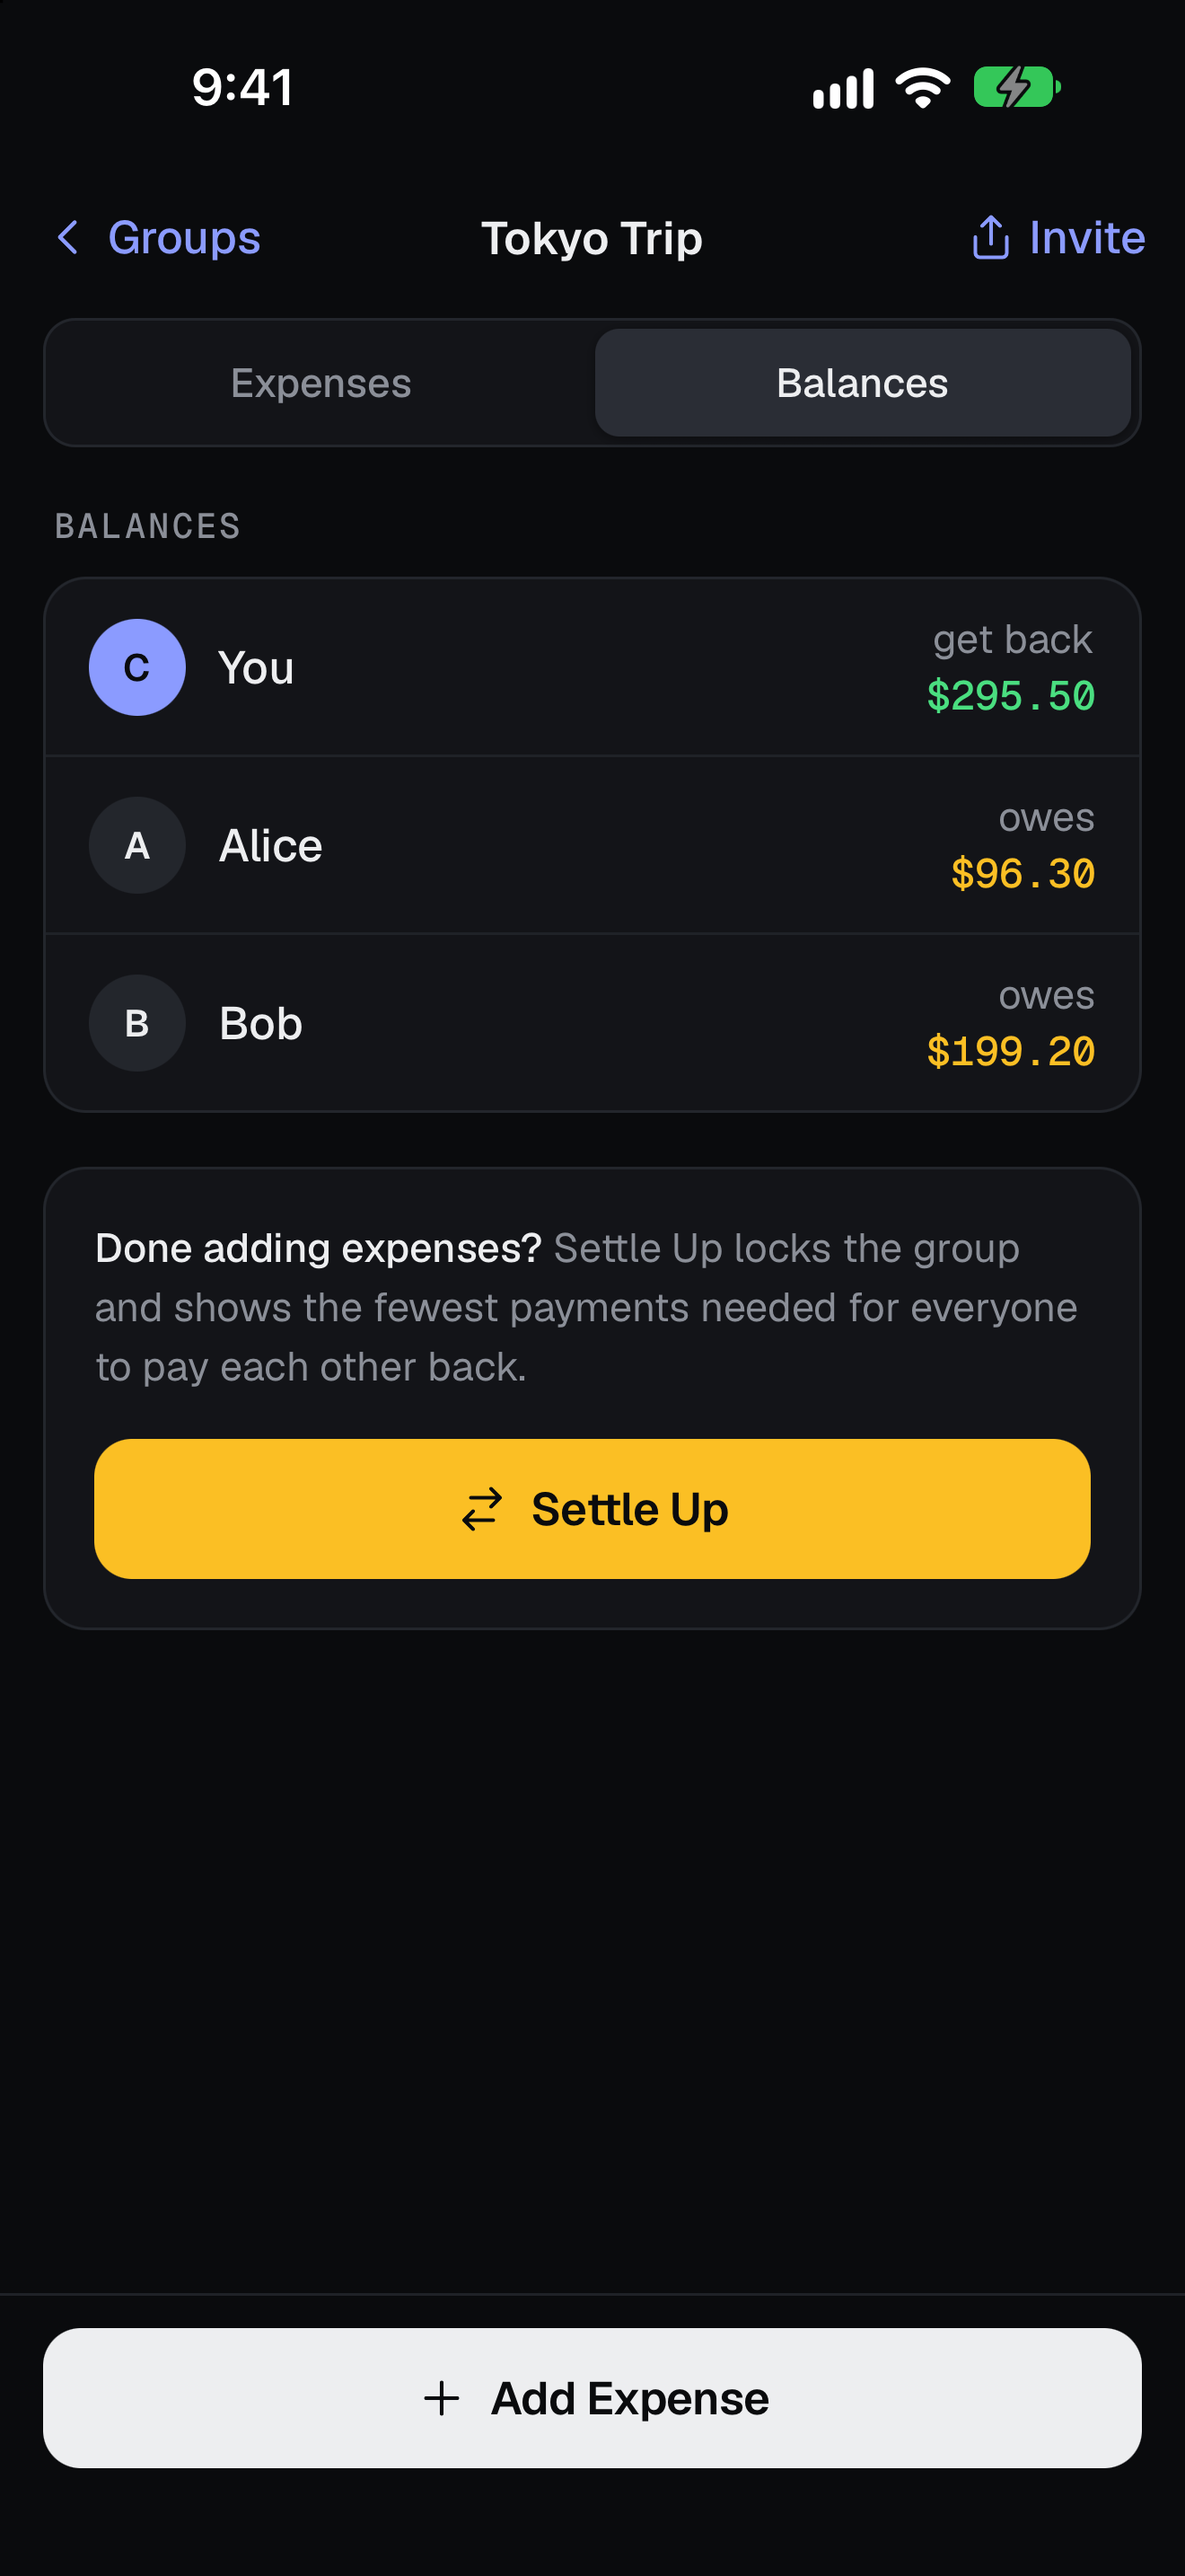
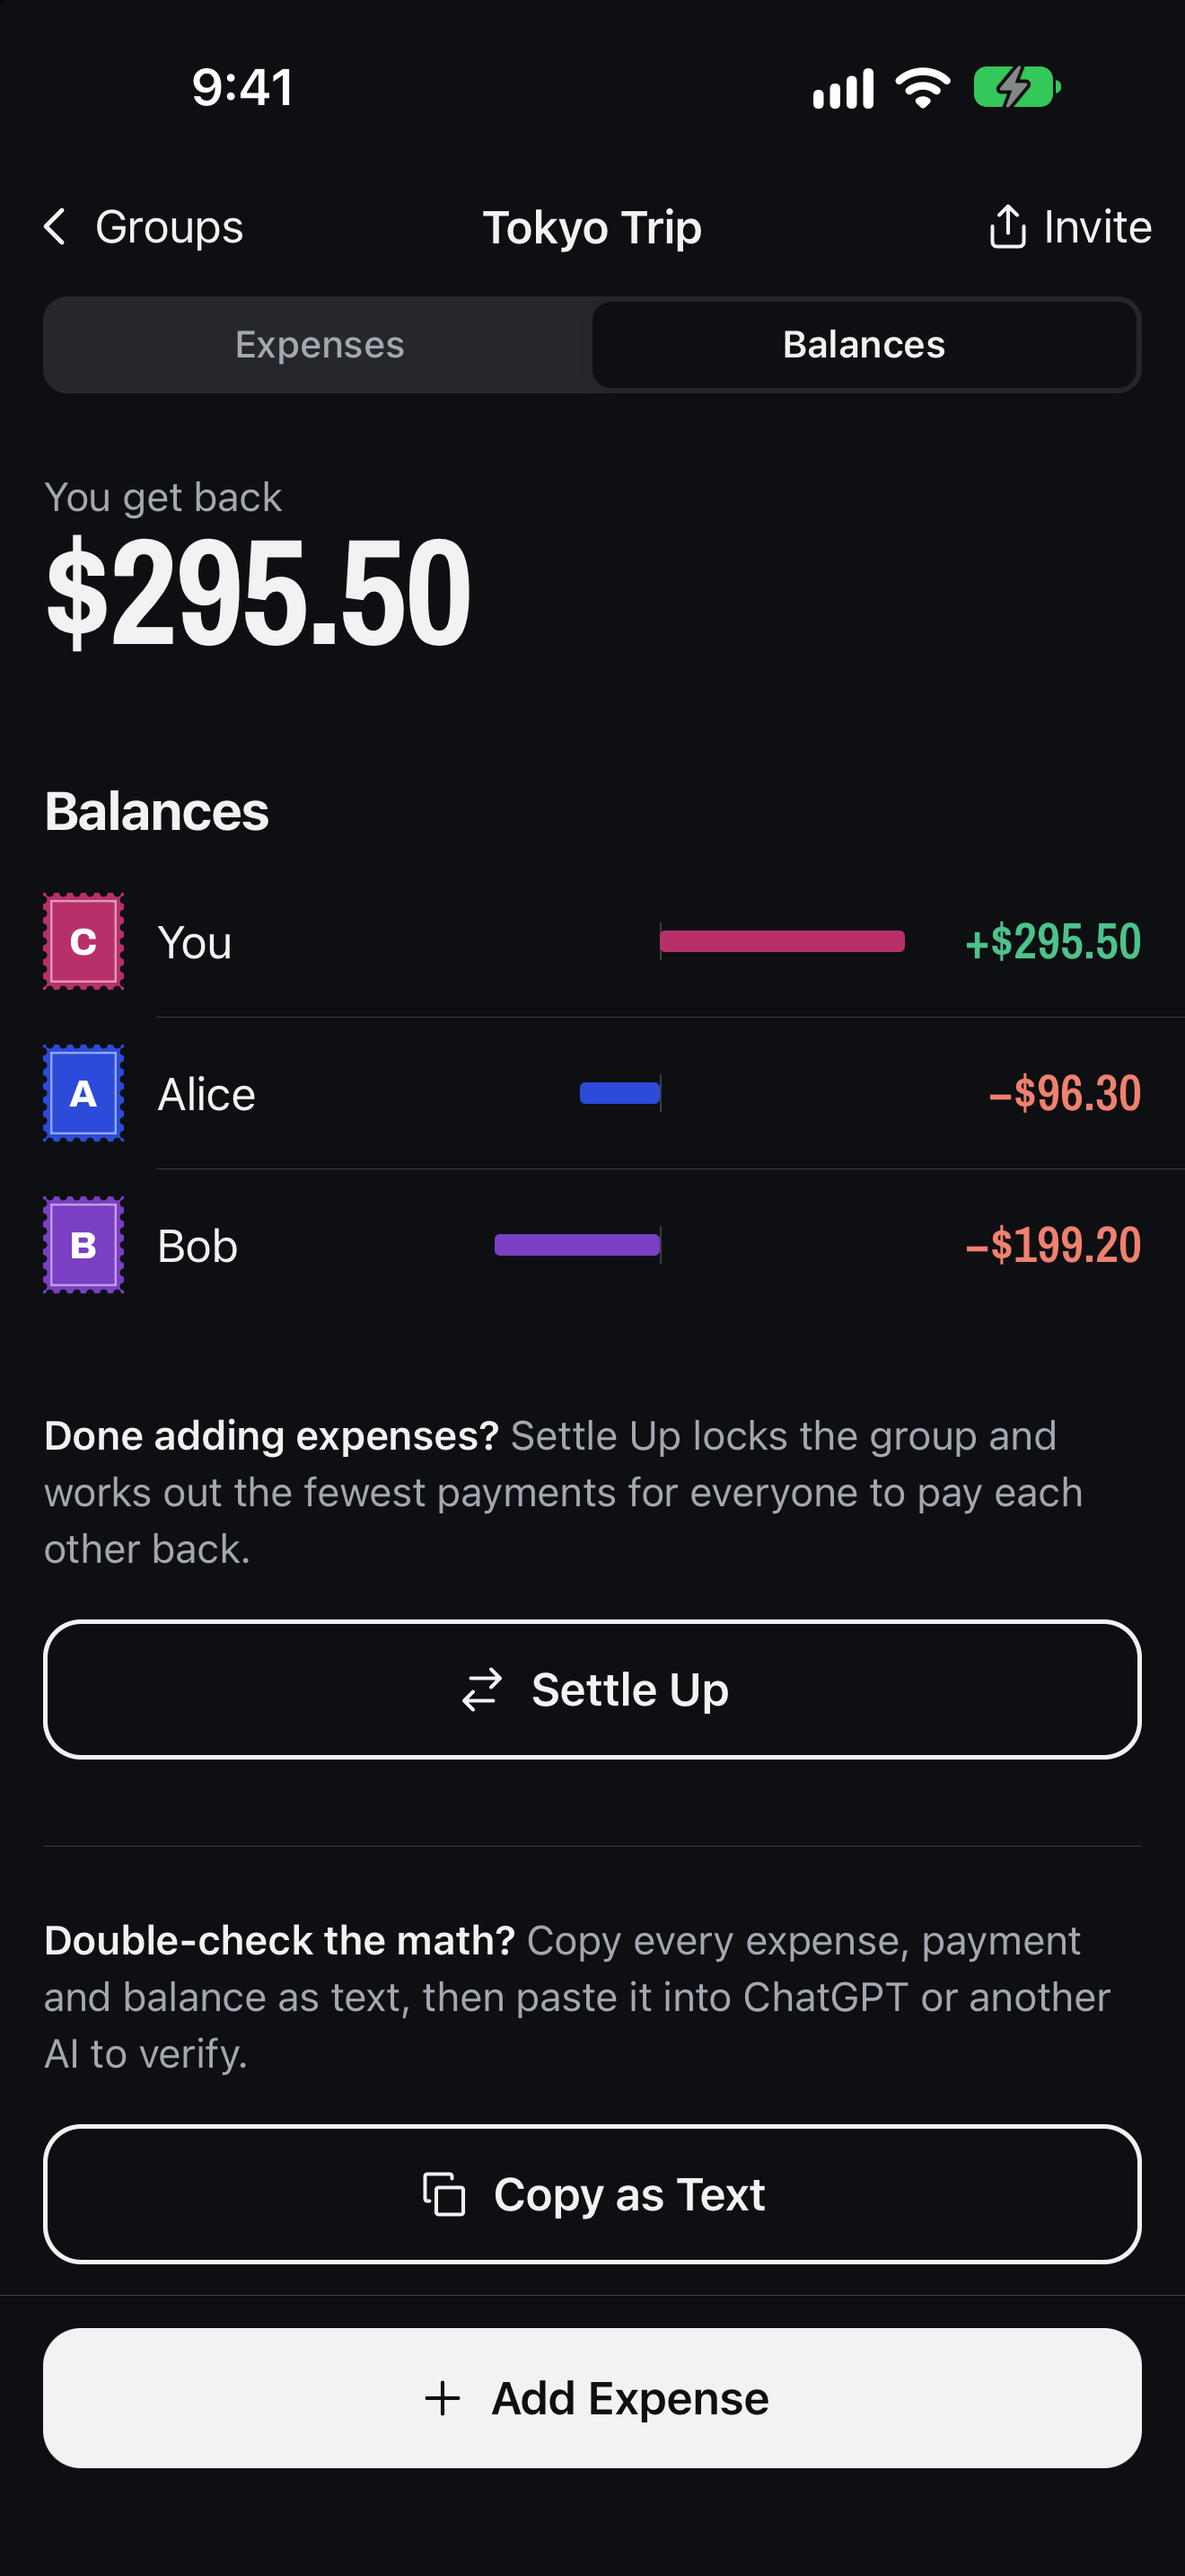
App Store screenshots for the Postmark redesign
- screenshots/ and 6.3-inch/: raw simulator shots of the new design.
- screenshots/listing/: the store images, with the new shots composited
  into the existing illustrated frames so the characters stay in front.
- listing.md describes both sets.

Claude-Session: https://claude.ai/code/session_01Le2tCe8mqkFgYzGED9AVKF

diff --git a/docs/app-store/listing.md b/docs/app-store/listing.md
@@ -27,10 +27,12 @@ Sign in with Apple or Google. No ads, no tracking. Delete your account any time 
 Amounts are in US dollars.
 
 ## Screenshots
-`screenshots/` holds 6.9" iPhone shots (1320×2868, iPhone 18 Pro Max simulator), which App Store Connect scales down for smaller iPhones. Upload them in order:
-1. `01-groups.png`: groups with balances and a settled badge
+`screenshots/` holds 6.9" iPhone shots (1320×2868, iPhone 18 Pro Max simulator, dark appearance). `screenshots/6.3-inch/` holds the same shots scaled to 1206×2622, which App Store Connect asks for first.
+
+`screenshots/listing/` (and `listing/6.3-inch/`) holds the images actually uploaded to the store: the same shots inside the illustrated frames (headline, phone, characters). They were made by compositing the raw shots into the live listing images, keeping the characters in front. Upload them in order:
+1. `01-groups.png`: groups with balances; the settled group's stamps are cancelled
 2. `02-expenses.png`: a trip's expenses
 3. `03-add-expense.png`: adding an expense, split equally
 4. `04-balances.png`: who owes whom
 5. `05-settle-up.png`: settling up with the fewest payments
-6. `06-settled.png`: all settled up
+6. `06-settled.png`: all settled up, with the Settled postmark
